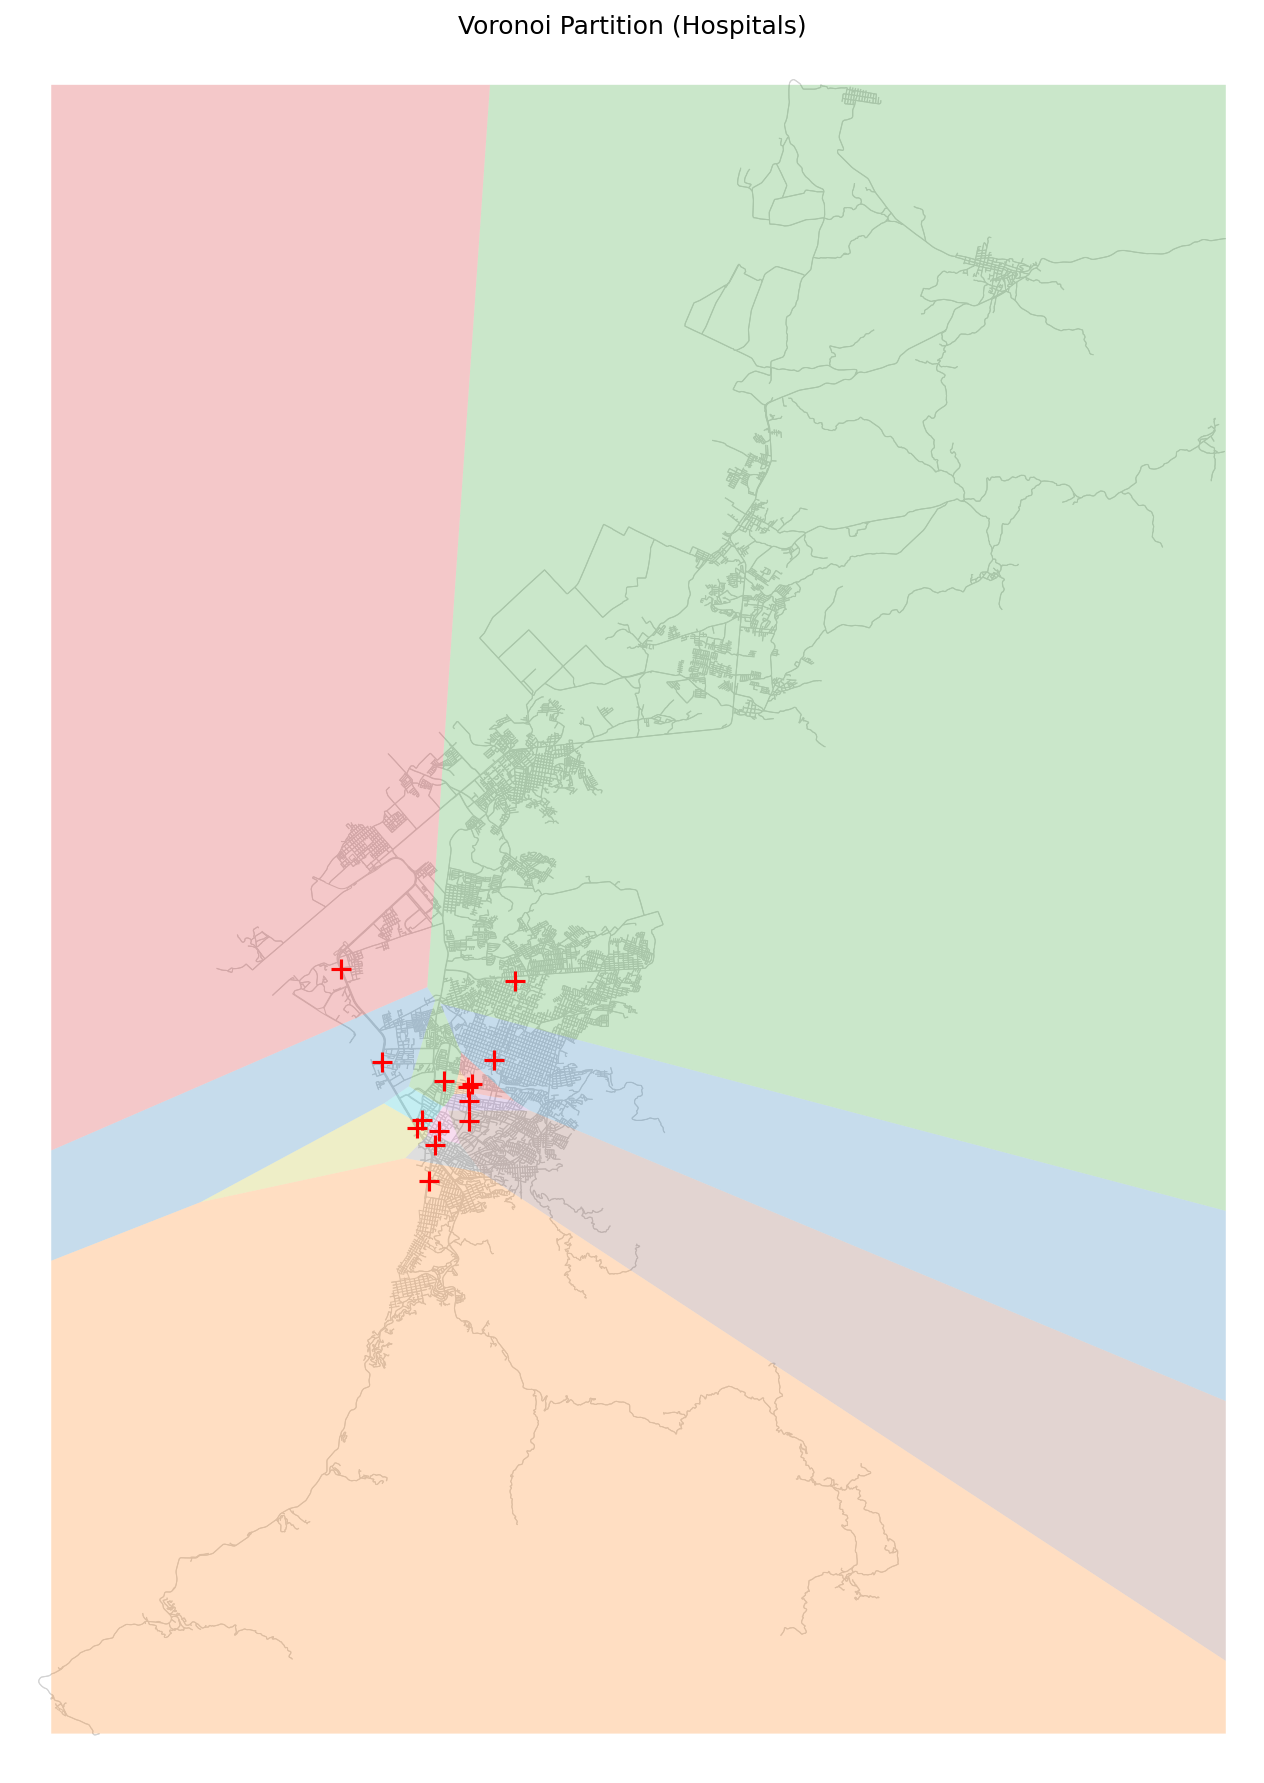
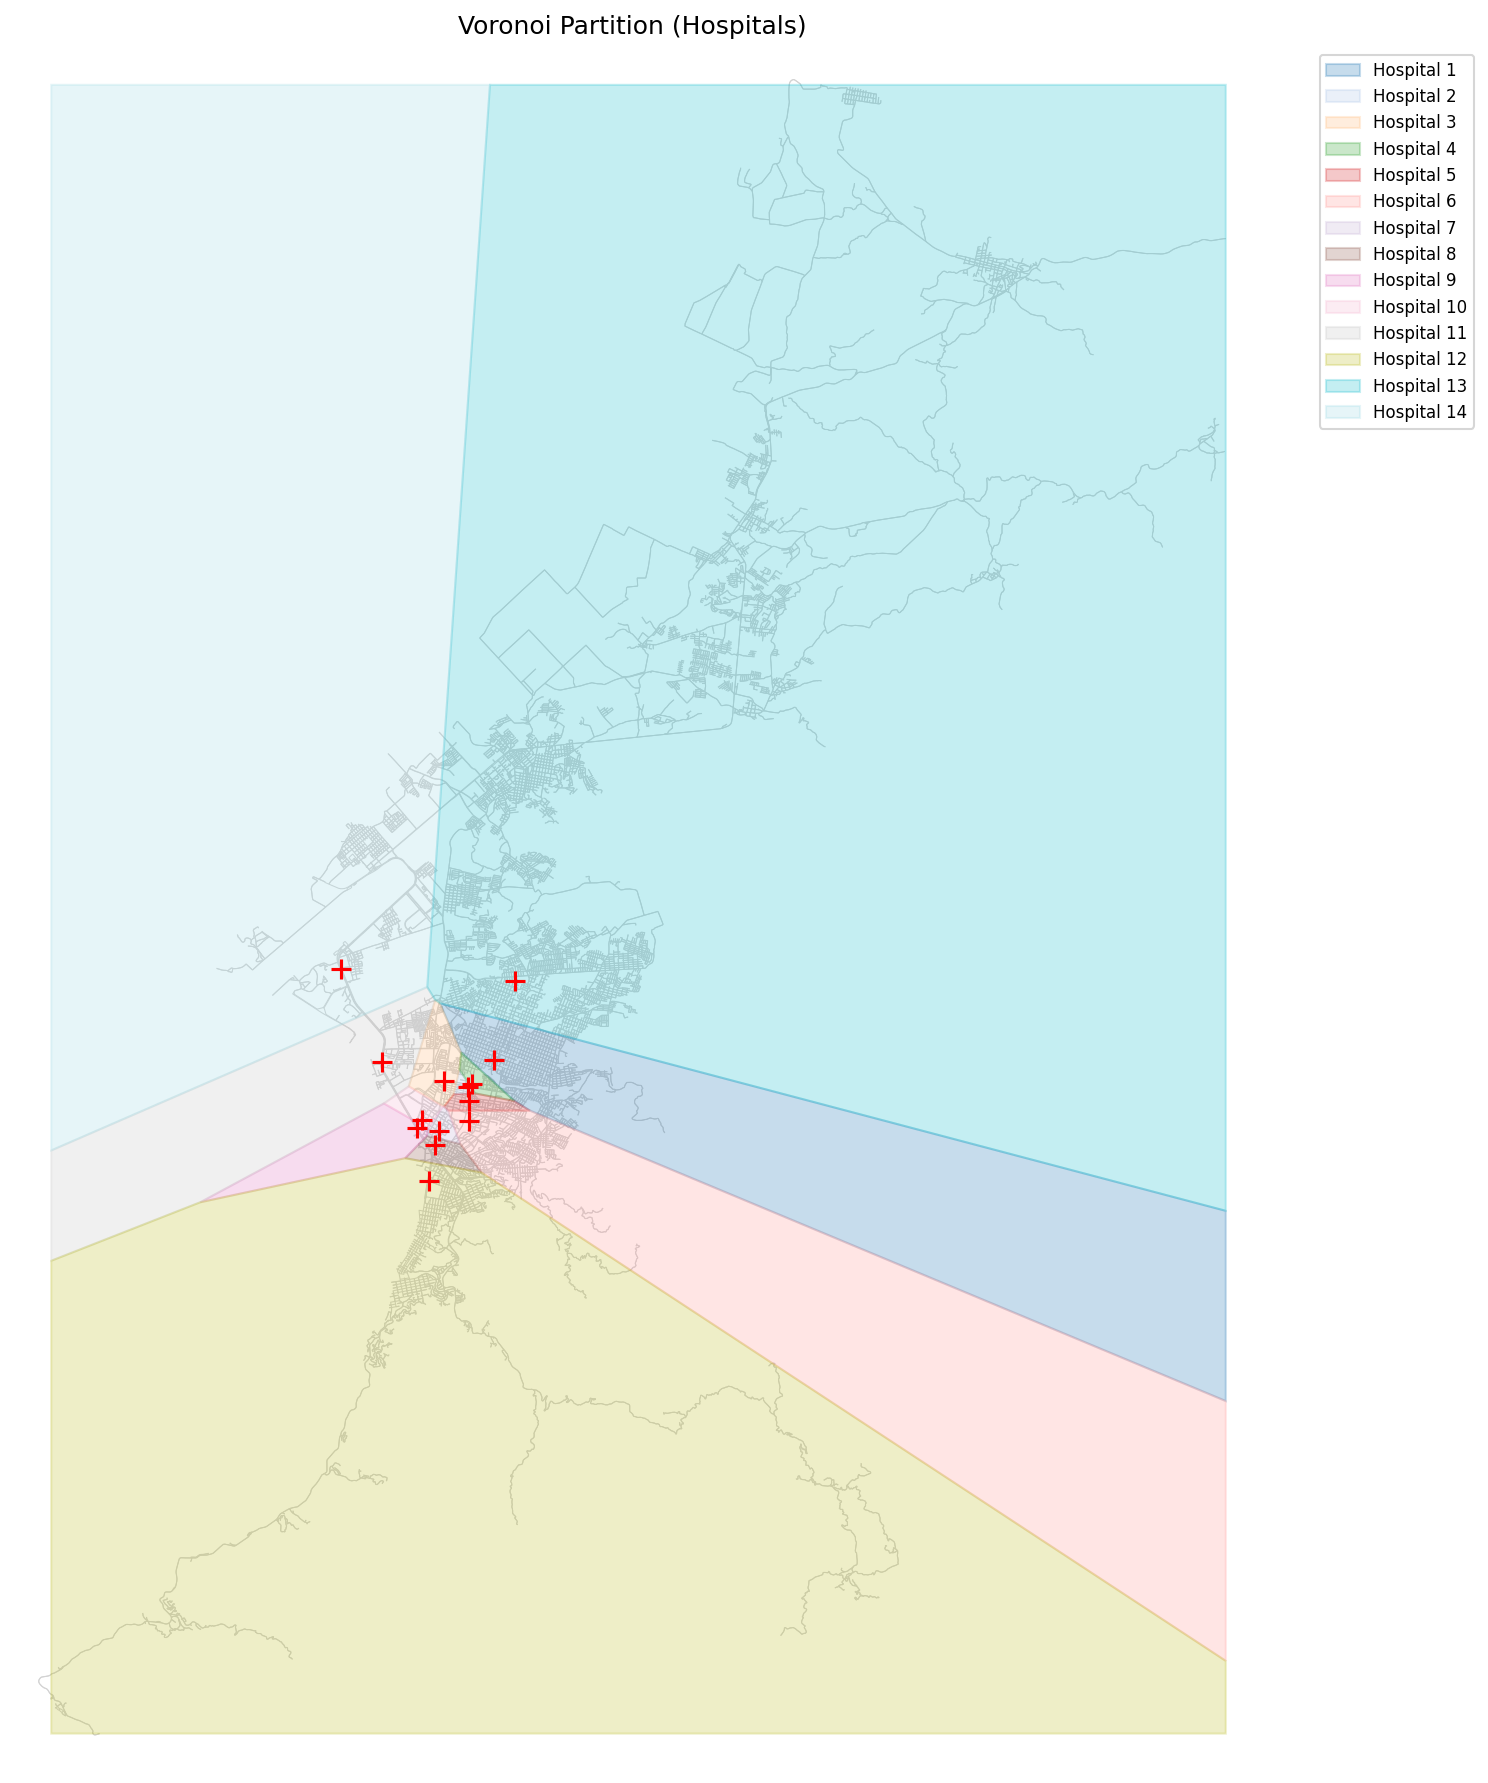
Add regions and route planning

diff --git a/component3_fixed.py b/component3_fixed.py
@@ -180,7 +180,8 @@ class HospitalRoutePlanner:
             if region.contains(p):
                 return i
         
-        # Fallback: hospital cuyo centro proyectado está más cerca
+        # Si no está en ninguna región (punto muy cercano a límite),
+        # usar distancia a los centros Voronoi
         min_dist = float('inf')
         nearest_idx = 0
         for i, h_node in enumerate(self.hospital_nodes):
@@ -191,6 +192,7 @@ class HospitalRoutePlanner:
                 min_dist = dist
                 nearest_idx = i
         
+        print(f"  Node {node_id} not in any region, using fallback (distance-based).")
         return nearest_idx
     
     # ---------------------------------------------------------
@@ -199,16 +201,21 @@ class HospitalRoutePlanner:
     def find_nearest_hospital(self, query_lat, query_lon):
         """
         Dado (lat, lon), determina:
-        - el nodo más cercano
+        - el nodo más cercano en la red
         - la región Voronoi a la que pertenece
         - el hospital (nodo) asociado a esa región
         """
-        # Nodo más cercano en la red
+        # Nodo más cercano en la red (en coordenadas geográficas)
         query_node = ox.distance.nearest_nodes(self.G, query_lon, query_lat)
+        print(f"  Query location (lat={query_lat:.6f}, lon={query_lon:.6f})")
+        print(f"  Nearest road node: {query_node}")
         
-        # Región Voronoi para ese nodo
+        # Región Voronoi para ese nodo (el nodo está en la red proyectada)
         region_idx = self._get_region_for_node(query_node)
         hospital_node = self.hospital_nodes[region_idx]
+        
+        print(f"  Voronoi region: {region_idx + 1}")
+        print(f"  Assigned hospital: Hospital {region_idx + 1} (Node {hospital_node})")
         
         return region_idx, hospital_node, query_node
     
@@ -220,12 +227,12 @@ class HospitalRoutePlanner:
         Compute the route from a query location to the nearest hospital 
         (according to Voronoi region) using A* on the projected graph.
         """
-        print(f"\nComputing route from ({query_lat:.6f}, {query_lon:.6f})...")
+        print(f"\n{'='*60}")
+        print(f"Computing route from ({query_lat:.6f}, {query_lon:.6f})")
+        print(f"{'='*60}")
         
         # Usar Voronoi para decidir el hospital
         hospital_idx, hospital_node, query_node = self.find_nearest_hospital(query_lat, query_lon)
-        print(f"Query nearest node: {query_node}")
-        print(f"Nearest hospital by Voronoi: Hospital {hospital_idx + 1} (Node {hospital_node})")
         
         # A* en grafo proyectado
         def heuristic(u, v):
@@ -238,10 +245,13 @@ class HospitalRoutePlanner:
                                   heuristic=heuristic, weight='length')
             route_length = nx.path_weight(self.G_proj, route, weight='length')
             
-            print(f"Route found: {len(route)} nodes, {route_length:.2f} meters")
+            print(f"\nRoute found successfully!")
+            print(f"  - Number of nodes: {len(route)}")
+            print(f"  - Distance: {route_length:.2f} meters ({route_length/1000:.2f} km)")
+            print(f"  - Segments: {len(route) - 1}")
             return route, hospital_idx, route_length
         except nx.NetworkXNoPath:
-            print("No path found between query location and hospital!")
+            print("\nNo path found between query location and hospital!")
             return None, hospital_idx, None
     
     # ---------------------------------------------------------
@@ -254,11 +264,19 @@ class HospitalRoutePlanner:
         ox.plot_graph(self.G_proj, ax=ax, node_size=0, edge_color="lightgray",
                       edge_linewidth=0.5, show=False, close=False)
 
-        # Polígonos Voronoi
-        for poly in self.voronoi_regions:
+        # Generate unique colors for each Voronoi region
+        num_regions = len(self.voronoi_regions)
+        colors = plt.cm.get_cmap('tab20')(np.linspace(0, 1, num_regions))
+        
+        # Polígonos Voronoi with unique colors
+        for i, poly in enumerate(self.voronoi_regions):
             if poly.geom_type == "Polygon":
                 x, y = poly.exterior.xy
-                ax.fill(x, y, alpha=0.25)
+                ax.fill(x, y, alpha=0.25, color=colors[i], label=f'Hospital {i+1}')
+            elif poly.geom_type == "MultiPolygon":
+                for sub_poly in poly.geoms:
+                    x, y = sub_poly.exterior.xy
+                    ax.fill(x, y, alpha=0.25, color=colors[i])
 
         # Hospitales
         for n in self.hospital_nodes:
@@ -267,6 +285,7 @@ class HospitalRoutePlanner:
                        s=100, c="red", marker="+")
 
         plt.title("Voronoi Partition (Hospitals)")
+        plt.legend(bbox_to_anchor=(1.05, 1), loc='upper left', fontsize=8)
         plt.tight_layout()
         return fig, ax
     
@@ -332,11 +351,6 @@ if __name__ == "__main__":
     route, hospital_idx, route_length = planner.compute_route(query_lat, query_lon)
     
     if route:
-        print(f"\nRoute Summary:")
-        print(f"- Distance: {route_length:.2f} meters ({route_length/1000:.2f} km)")
-        print(f"- Number of segments: {len(route) - 1}")
-        
-        # Visualize the route
         print("\nVisualizing route...")
         fig2, ax2 = planner.visualize_route(route, query_lat, query_lon, hospital_idx)
         plt.savefig('route_to_hospital.png', dpi=150, bbox_inches='tight')
@@ -355,5 +369,5 @@ if __name__ == "__main__":
     print("\n" + "="*60)
     print("Route planning system ready!")
     print("Use find_route_to_hospital(lat, lon) to find routes from any location")
-    print("="*60)
+   
 
